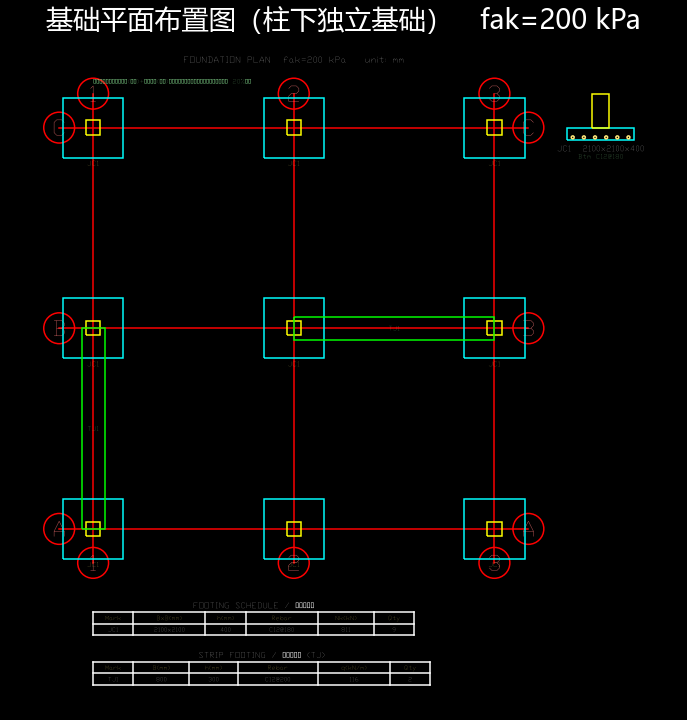
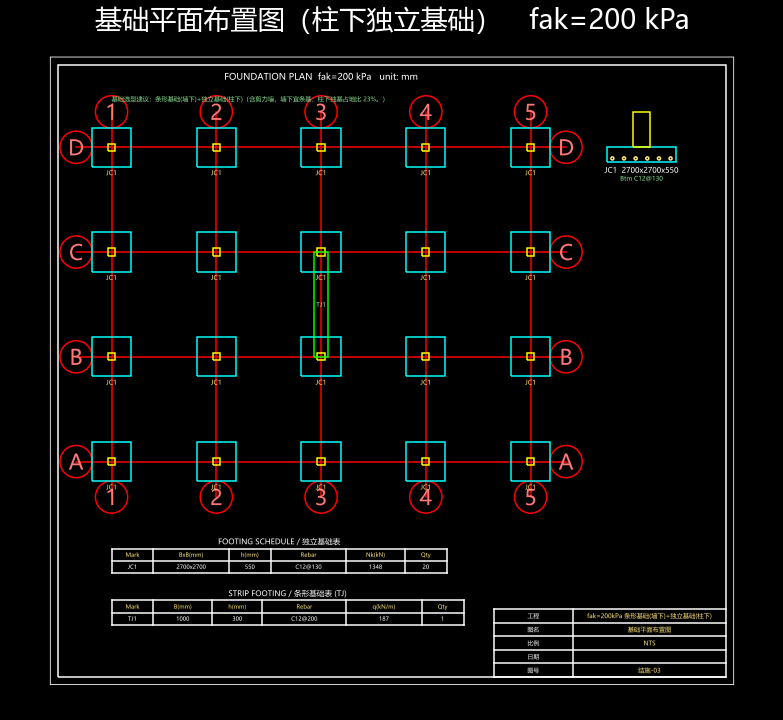
fix: 施工图中文字体(方框)修复 + 图文使用说明书
dxf_export._render: 把 DXF 文字样式指向 Windows 中文字体(msyh.ttc/SimHei...),
修复出图 PNG/PDF 中表格/标题栏/说明的中文显示为方框(ezdxf 出图后端按文字样式找字体).
view3d.export_mode_png: 振型峰值静态图(说明书/计算书用).
新增 docs/manual 图文使用说明书(6层框架实例, 真实程序截图); 更新 docs/intro 配图.

diff --git a/modeler/view3d.py b/modeler/view3d.py
@@ -429,6 +429,51 @@ def export_mode_animation(project, result, path, which="扭转", n_frames=24):
 _QUADS = [(0, 1, 2, 3), (4, 5, 6, 7), (0, 1, 5, 4), (1, 2, 6, 5), (2, 3, 7, 6), (3, 0, 4, 7)]
 
 
+def export_mode_png(project, path, which="扭转"):
+    """振型**峰值变形**静态 PNG（matplotlib）：用于说明书/计算书展示扭转/平动振型形态。"""
+    import matplotlib
+    matplotlib.use("Agg")
+    import matplotlib.pyplot as plt
+    from mpl_toolkits.mplot3d.art3d import Poly3DCollection
+    from structdesign.analysis.modal3d import rigid_diaphragm_modal
+    from structdesign.frame3d_builder import floor_masses
+    model, meta = build_with_meta(project)
+    zk = list(floor_masses(model, 1.0).keys())
+    axx = [n.x for n in model.nodes.values()]; ayy = [n.y for n in model.nodes.values()]
+    area = max((max(axx) - min(axx)) / 1000.0 * (max(ayy) - min(ayy)) / 1000.0, 1.0)
+    sl = project.floor.slab
+    mpf = max((sl.dead + 0.5 * sl.live) * area * 100, 3e5)
+    modal = rigid_diaphragm_modal(model, {z: mpf for z in zk})
+    j, desc = _pick_mode_column(modal, which)
+    disp = _mode_nodal_disp(model, modal, j)
+    span = max((n.x for n in model.nodes.values()), default=1) or 1.0
+    umax = max((math.hypot(disp[i][0], disp[i][1]) for i in disp), default=1.0) or 1.0
+    scale = 0.12 * max(span, max((n.z for n in model.nodes.values()), default=1)) / umax
+    KCOL = {"柱": "#d83a3a", "梁": "#1a9e5a", "墙": "#1f6feb"}
+    fig = plt.figure(figsize=(9, 8)); ax = fig.add_subplot(111, projection="3d")
+    polys, fcs = [], []
+    for mid in model.members:
+        vd = _member_prism(model, meta, mid, disp, scale)
+        for q in _QUADS:
+            polys.append([vd[i] for i in q])
+        fcs += [KCOL.get(meta[mid]["kind"], "#888")] * 6
+    ax.add_collection3d(Poly3DCollection(polys, facecolors=fcs,
+                        edgecolors=(0, 0, 0, 0.3), linewidths=0.2))
+    xs = [n.x for n in model.nodes.values()]; ys = [n.y for n in model.nodes.values()]
+    zs = [n.z for n in model.nodes.values()]
+    ax.set_xlim(min(xs), max(xs)); ax.set_ylim(min(ys), max(ys)); ax.set_zlim(min(zs), max(zs))
+    try:
+        ax.set_box_aspect((max(xs) - min(xs) + 1, max(ys) - min(ys) + 1, max(zs) - min(zs) + 1))
+    except Exception:
+        pass
+    ax.view_init(elev=22, azim=-60)
+    en = {"扭转": "Torsional", "X": "X-translation", "Y": "Y-translation"}.get(which, "Mode")
+    Tval = desc.split("T=")[-1] if "T=" in desc else ""
+    ax.set_title(f"{en} mode shape (peak)  T={Tval}", fontsize=15, fontweight="bold")
+    fig.savefig(path, dpi=140); plt.close(fig)
+    return path
+
+
 def export_png(project, result, path, mode="model"):
     """matplotlib 三维实体 PNG（离线，不需浏览器/kaleido），供嵌入计算书或快速预览。"""
     import matplotlib

diff --git a/modeler/io/dxf_export.py b/modeler/io/dxf_export.py
@@ -874,12 +874,32 @@ def export_stair(stair, dxf_path, png_path=None, pdf_path=None):
     return dxf_path, png_path, pdf_path
 
 
+def _set_cjk_style(doc):
+    """把 DXF 文字样式指向中文字体，避免出图中文显示为方框(ezdxf 出图后端按文字样式找字体)。"""
+    import os
+    cands = ["msyh.ttc", "msyhl.ttc", "simhei.ttf", "simsun.ttc", "simkai.ttf",
+             "Microsoft YaHei", "SimHei", "SimSun"]
+    winf = os.path.join(os.environ.get("WINDIR", r"C:\\Windows"), "Fonts")
+    font = next((f for f in cands if os.path.exists(os.path.join(winf, f))), cands[0])
+    for sname in (list(doc.styles) if hasattr(doc, "styles") else []):
+        try:
+            sname.dxf.font = font
+        except Exception:
+            pass
+    try:
+        doc.styles.get("Standard").dxf.font = font
+    except Exception:
+        pass
+    return font
+
+
 def _render(doc, msp, png_path, pdf_path, cn_title=""):
     import matplotlib
     matplotlib.use("Agg")
     import matplotlib.pyplot as plt
     plt.rcParams["font.sans-serif"] = ["Microsoft YaHei", "SimHei", "SimSun", "DejaVu Sans"]
     plt.rcParams["axes.unicode_minus"] = False
+    _set_cjk_style(doc)                    # 关键：DXF 文字用中文字体
     from ezdxf.addons.drawing import RenderContext, Frontend
     from ezdxf.addons.drawing.matplotlib import MatplotlibBackend
     fig = plt.figure(figsize=(11.5, 13), facecolor="black")

diff --git a/docs/manual/使用说明书.md b/docs/manual/使用说明书.md
@@ -1,0 +1,201 @@
+---
+title: "structdesign 智能结构设计软件 · 使用说明书"
+subtitle: "图文实操 · 以一栋 6 层框架为例，从建模到出图全流程"
+date: "2026-06"
+---
+
+# 写在前面
+
+本说明书用**一个完整工程实例**，带你走一遍 structdesign 的全流程：
+
+> **实例**：6 层钢筋混凝土框架，平面 4×3 跨、柱距 7.2 m，层高 3.6 m；柱 600×600、梁 300×700、板厚 120；楼面恒载 6.0、活载 2.5 kN/m²；北京地区。（纯框架；如需剪力墙见 2.2，可选）
+
+跟着做完，你就掌握了：**建模 → 设参数 → （可选）AI 助手 → 自动优化 → 看结果 → 出施工图 → 出计算书**。
+
+本软件为**方案/初步设计**深度的开源工具；结果须经注册结构工程师复核签字后用于工程。
+
+---
+
+# 0. 安装与启动
+
+1. 把 `structdesign_modeler_安装版.zip` **完整解压**到任意目录。
+2. 双击 **`安装.bat`** —— 自动安装到当前用户目录、创建桌面快捷方式（无需管理员、无需联网）。
+3. 双击桌面 **"structdesign modeler"** 启动。
+   （也可不安装：进入 `structdesign_modeler` 文件夹双击 `structdesign_modeler.exe`。）
+
+> 程序生成的图纸/计算书默认写到 `C:\Users\你的用户名\structdesign_work\`，出图时也会弹框可另存。
+
+---
+
+# 1. 界面总览
+
+启动后是经典的 CAD/YJK 式布局：
+
+![软件主界面布局：① 顶部分组工具条 ② 中央绘图区 ③ 右侧"参数/AI助手"选项卡 ④ 底部计算结果](img/ui_full.png)
+
+- **① 顶部工具条**（分组）：`文件` `建模` `编辑` `分析` `出图` `工具`，常用命令一目了然。
+- **② 中央绘图区**：画轴网、柱、梁、墙、板；支持点选/框选、缩放、平移。
+- **③ 右侧选项卡**：`参数/属性`（截面、荷载、楼层表、工程地区、地震、风、温度、地下室）与 `🤖 AI 助手`。
+- **④ 底部计算结果**：规范指标表（周期比、位移比、剪重比、层间位移角…）。
+
+主要工具按钮：
+
+| 分组 | 按钮 | 作用 |
+|---|---|---|
+| 文件 | 📂导入 / 🔎识别构件 / 💾保存 / 📁打开 | 导入 DWG/DXF、按图层自动识别构件 |
+| 建模 | ▦一键轴网 / ▣一键楼板 / 柱·梁·墙·板·板洞·墙洞·楼梯·缝 | 快速与手动建模 |
+| 编辑 | 撤销/重做/复制/移动/镜像/阵列/删除 | CAD 式编辑 |
+| 分析 | 🤖自动优化设计 / ▶单次计算 / ✓拼接检验 / ⌶自动转换梁 | 计算与优化 |
+| 出图 | 📐配筋图 / ▤板施工图 / 🏗基础图 / 🪜楼梯图 / 🧊3D视图 / 📄计算书 | 成果输出 |
+| 工具 | 🔧钢结构 | 型钢梁/柱 GB 50017 验算 |
+
+---
+
+# 2. 建模
+
+## 2.1 一键轴网
+
+点 **`建模 → ▦ 一键轴网`**，在对话框填：X 向 4 跨、Y 向 3 跨、柱距 7200，柱 600×600、梁 300×700 → 确定。软件自动生成轴网 + 柱 + 梁：
+
+![一键轴网生成的标准层平面：黄色=柱、绿色=梁、蓝色=墙、轴号①~⑤/Ⓐ~Ⓓ](img/model_plan.png)
+
+## 2.2 一键楼板 / 墙 / 楼梯 / 板洞
+
+- **`▣ 一键楼板`**：按轴网各区格自动布板（板厚默认 120）。
+- **墙**：选 `▮ 墙` 工具，在中部 ⓂⒷ–ⓂⒸ 之间画一道剪力墙（厚 300）。
+- **楼梯**：选 `⛢ 楼梯`，在右下角区格框选 → 生成板式双跑楼梯。
+- **板洞**：选 `◳ 板洞`，框选需开洞处（如楼梯间）。
+
+> 编辑技巧：`选择` 工具点选/框选构件后，可 `复制/移动/镜像/阵列`；`Ctrl+Z` 撤销、`Ctrl+Y` 重做。
+
+---
+
+# 3. 设置参数
+
+切到右侧 **`参数/属性`** 选项卡：
+
+1. **工程地区**：下拉选 **"北京"** —— 软件自动填入北京的抗震 αmax=0.16、Tg=0.40s、基本风压 w0=0.45、地面粗糙度 C（其它城市可后续扩展）。
+2. **荷载**：恒载 6.0、活载 2.5 kN/m²。
+3. **地震参数**：抗震等级（如二级）、振型数 12；如需可勾选"竖向地震"。
+4. **风荷载**：勾选"计入风荷载"（已随地区填好 w0）。
+5. **温度/地下室**：本例不勾选（有伸缩缝的常规建筑可不计温度）。
+
+---
+
+# 4. 🤖 AI 助手（用一句话改模型）
+
+切到 **`🤖 AI 助手`** 选项卡，直接用中文下指令，软件**当场执行**并刷新模型/参数。试试：
+
+| 你输入 | 软件执行 |
+|---|---|
+| `标准层所有板 恒载6 活载3` | 设好楼面荷载 |
+| `所有窗户从中心扩大200` | 墙洞批量改尺寸 |
+| `梁纵筋取大包罗` | 同截面梁统一最大配筋（计算与图纸同步） |
+| `改用北京地标` | 套用北京地震/风参数 |
+
+> 离线即可用（内置中文意图解析）；若在"AI 助手"里填入 API Key，则升级为大模型自由对话。指令含"计算/算一下"时会自动触发计算。
+
+---
+
+# 5. 自动优化设计（一键到底）
+
+点 **`分析 → 🤖 自动优化设计`**，在弹窗选试算风格：
+
+- **试算风格**：经济（最省料）/ 均衡（推荐）/ 稳健（留裕度）
+- **截面策略**：全优化（自动加大+减小）/ 只加大到满足 / 只配筋
+- **控制重点**：标准 / 严格
+
+点确定后，软件**自动迭代**：分析 → 校核（承载力/层间位移角/剪重比）→ 加大或减小截面 → 重分析 …… 直到满足规范并尽量省料，最后自动出配筋与计算书。底部"计算结果"实时刷新指标。
+
+> 也可点 `▶ 单次计算` 只按当前截面算一次。
+
+---
+
+# 6. 查看结果
+
+## 6.1 规范指标
+底部"计算结果"面板给出：自振周期 Tx/Ty/Tt、**周期比 Tt/T1**、**位移比**、**剪重比**、**最大层间位移角（地震/风包络）**，逐项给限值与判定（✔/✗）。
+
+本例（柱 600×600 纯框架）：层间位移角 1/967（≤1/550 ✔）、剪重比 8.5%（✔）、位移比 1.0（✔）、竖向构件不足 0。
+
+> **关于周期比偏保守（务必知悉）**：本版三维模态把楼面质量集中于柱节点，质量回转半径≈刚度回转半径，导致**扭转周期 Tt 偏大、周期比 Tt/T1 趋近 1**（对称方正纯框架尤甚，本例显示约 0.97，理论应约 0.83）。这是**已知的保守简化**（结果面板底部已注明），并非设计缺陷；周期比/位移比属扭转规则性指标，靠调整结构布置（如周边设墙/调布置）改善，**不靠加大截面**。重要工程的周期比请以商业三维软件复核为准。
+
+## 6.2 三维视图
+点 **`出图 → 🧊 3D视图`**，选内容：
+
+**实体模型**（含板洞/楼梯/地下室）：
+![三维实体模型](img/3d_model.png)
+
+**利用率云图**（柱墙轴压比、梁配筋比；越红越接近/超限，薄弱处一眼定位）：
+![构件利用率云图](img/3d_util.png)
+
+**振型动画 - 扭转**：播放可见楼层**绕竖轴扭动**（地震下的扭转效应）。下图为扭转振型峰值形态：
+![第一扭转振型（峰值变形）](img/3d_torsion.png)
+
+还可选 **荷载分布**（重力↓蓝、风荷载→橙）、**变形位移**、**振型动画-X平动**。
+
+---
+
+# 7. 出施工图（平法表示）
+
+## 7.1 配筋平面图
+点 **`出图 → 📐 配筋图`**，导出 DXF + PDF + PNG。采用**国标平法**：柱 KZ + 柱表、梁 KL 集中标注（截面/箍筋/**通长筋**/**腰筋**）+ 逐跨原位标注、墙 Q + 边缘构件大样、板 B/T 注写；带**图框 + 标题栏**；**承载力/构造不满足的构件用红色修订云线圈出并注明原因**。
+
+![结构配筋平面图（平法；右下角标题栏；红色云线标识不达标构件）](img/plan.png)
+
+## 7.2 板配筋施工图
+点 **`▤ 板施工图`**：每块板标 **B**（板底贯通筋，绿）/ **T**（支座板面负筋，橙）+ 板表。
+
+![板配筋施工图](img/slab.png)
+
+## 7.3 基础图
+点 **`🏗 基础图`**：柱下独立基础（按 fak）+ 墙下条形基础 + **基础选型建议**（独基/条基/筏板/桩基）+ 基础表 + 剖面大样。
+
+![基础平面布置图（独基 + 条基 + 选型建议）](img/fdn.png)
+
+> 另有 `🪜 楼梯图`（板式双跑剖面+平面+说明）。所有图均输出 **DXF（可导入 AutoCAD 微调）+ PDF（可直接打印）+ PNG（预览）**。
+
+---
+
+# 8. 专业计算书
+
+点 **`出图 → 📄 计算书`** 打开。计算书涵盖：工程概况、设计依据（国标 + 地区地标）、材料、荷载与地震参数（含**风荷载、活荷折减、温度、竖向地震**专项）、计算模型与方法、周期/振型/地震作用、水平位移验算、构件配筋（柱/墙/梁，含**主/次梁、钢筋归并**）、规范指标汇总、结论。每一步标注**规范条文与公式**，并如实写明**简化与诚实边界**。
+
+输出 Markdown 与 **Word（.docx）**（需本机有 pandoc；否则仅 .md）。
+
+---
+
+# 9. 钢结构工具箱
+
+点 **`工具 → 🔧 钢结构`**：选型钢截面（HW/HM/HN）+ 钢材（Q235/Q355…）+ 内力，按 **GB 50017** 验算钢梁（抗弯/抗剪/整体稳定/挠度）或钢柱压弯（强度/平面内外稳定/长细比），给出各项利用率与判定。
+
+---
+
+# 附录 A：典型流程速查
+
+```
+导入图纸/🔎识别构件  或  ▦一键轴网 → ▣一键楼板 → 画墙/楼梯/板洞
+        ↓
+右侧参数：工程地区(北京) + 荷载 + 地震/风
+        ↓
+🤖AI助手(可选，一句话改模型)  →  🤖自动优化设计
+        ↓
+看指标 / 🧊3D(实体·利用率·扭转动画) → 📐配筋图 ▤板图 🏗基础图 → 📄计算书
+```
+
+# 附录 B：诚实边界（务必知悉）
+
+- 方案/初步设计深度；刚性楼盖、等效宽柱等简化已在计算书标注。
+- 弹性楼板面内内力重分配、基础沉降需更深内核/地勘数据，**未实现并已注明**。
+- **施工图最终须商业三维软件复核 + 注册结构工程师签字。** 软件不替代签字判断。
+
+# 附录 C：常见问题
+
+- **导入 .dwg 失败**？装免费 ODA File Converter，或在 CAD 里导出 .dxf 再导入。
+- **计算书只有 .md 没有 .docx**？装 pandoc 即可自动转 Word。
+- **AI 只认简单指令**？未填 API Key 时为离线规则模式；填入 Key 启用大模型自由对话。
+- **某构件被红云线圈出**？该处承载力/构造不满足，请加大截面或配筋（或用自动优化）。
+
+---
+
+*structdesign · 开源（Apache-2.0）· GitHub: github.com/lratusa/structdesign · Gitee: gitee.com/lratusa/structdesign*